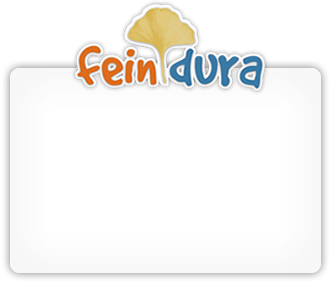
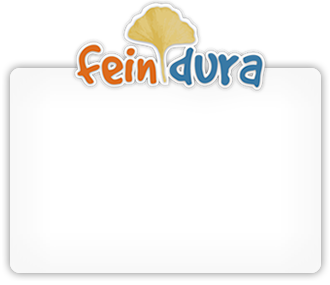
build 583: add transparent dimContainer image, to save resources (dont have to make it in js)

Changed region(s): [[0.2121, 0.1404, 0.7879, 0.3368], [0.3939, 0.0, 0.5455, 0.1123], [0.5455, 0.0561, 0.6061, 0.1123]]

diff --git a/library/javascripts/windowBox.js b/library/javascripts/windowBox.js
@@ -23,15 +23,15 @@ var uploadAnimationElement = null;
 // dimms the background and calls: requestSite(site,siteTitle);
 function openWindowBox(site,siteTitle,fixed) {
     
-  $('dimmContainer').setStyle('opacity',0);
-  $('dimmContainer').setStyle('display','block');
+  $('dimContainer').fade('hide');
+  $('dimContainer').setStyle('display','block');
   
-  $('dimmContainer').set('fade', {duration: 150, transition: Fx.Transitions.Pow.easeOut});
-  $('dimmContainer').tween('opacity',0.5);
+  $('dimContainer').set('fade', {duration: 150, transition: Fx.Transitions.Pow.easeOut});
+  $('dimContainer').fade('in');
   
   loadingText = $$('#windowBox .boxTop').get('html');
   
-  $('dimmContainer').get('tween').chain(function(e) {
+  $('dimContainer').get('tween').chain(function(e) {
     if(site) {
       // if fixed is true, than the window positon is relative,
       // means its fixed in the document, and NOT scrolling with the user
@@ -62,13 +62,13 @@ function openWindowBox(site,siteTitle,fixed) {
 
 /* ---------------------------------------------------------------------------------- */
 // fades all windows out and set windowBoxContainer to display:none;
-// and remove alle Events from dimmContainer, windowBox, windowRequestBox
+// and remove alle Events from dimContainer, windowBox, windowRequestBox
 function closeWindowBox(redirectAfter) {
       
 	// resize the box by a slide
 	var SlideWindowBoxClose = new Fx.Slide('windowRequestBox', {duration: 250, transition: Fx.Transitions.Pow.easeIn});
 	$('windowBox').set('tween', {duration: 100, transition: Fx.Transitions.Pow.easeOut});
-	$('dimmContainer').set('tween', {duration: 150, transition: Fx.Transitions.Pow.easeOut});
+	$('dimContainer').set('tween', {duration: 150, transition: Fx.Transitions.Pow.easeOut});
 	
 	// IE HACK, wont bring the bottom div to the top
 	if(navigator.appVersion.match(/MSIE ([0-6]\.\d)/)) {
@@ -83,9 +83,9 @@ function closeWindowBox(redirectAfter) {
 			$('windowRequestBox').setStyle('height', 'auto');
 			
 			// fades the windowBox
-			$('windowBox').tween('opacity',0);
-			// fades the dimmContainer
-      $('dimmContainer').tween('opacity',0);
+			$('windowBox').fade('out');
+			// fades the dimContainer
+      $('dimContainer').fade('out');
   });
   
   $('windowBox').get('tween').chain(function(e) {
@@ -94,8 +94,8 @@ function closeWindowBox(redirectAfter) {
   });
   
   // last effect
-  $('dimmContainer').get('tween').chain(function(e) {
-	   $('dimmContainer').setStyle('display','none');
+  $('dimContainer').get('tween').chain(function(e) {
+	   $('dimContainer').setStyle('display','none');
 	   $$('#windowBox .boxTop').set('html',loadingText);
 	   
 	   if(redirectAfter)

diff --git a/library/javascripts/frontendEditing.js b/library/javascripts/frontendEditing.js
@@ -81,17 +81,18 @@
       onRequest: function() { //-----------------------------------------------------		
 
         // -> TWEEN jsLoadingCircleContainer
-    		if(!pageBlock.get('html').contains(loadingFill))
+    		if(!pageBlock.contains(loadingFill))
     		  pageBlock.grab(loadingFill,'top');
         loadingFill.set('tween',{duration: 100});
         loadingFill.setStyle('opacity',0);
         loadingFill.tween('opacity',0.8);
         
         // -> ADD the LOADING CIRCLE
-        if(!pageBlock.get('html').contains(jsLoadingCircle))
+        if(!pageBlock.contains(jsLoadingCircle))
     		  pageBlock.grab(jsLoadingCircle,'top');
     		centerOnElement(jsLoadingCircle,pageBlock);
-    		removeLoadingCircle = feindura_loadingCircle(jsLoadingCircle, 24, 40, 12, 4, "#000");        
+    		removeLoadingCircle = feindura_loadingCircle(jsLoadingCircle, 24, 40, 12, 4, "#000");
+    		jsLoadingCircle.fade('in');    
       },
   		onSuccess: function(html) { //-------------------------------------------------
   			
@@ -115,7 +116,7 @@
           finishPicture.set('tween',{duration: 400});
           finishPicture.fade('in');
           finishPicture.get('tween').chain(function(){
-            finishPicture.tween('opacity',0);
+            finishPicture.fade('out');
           }).chain(function(){
             finishPicture.dispose();
             // -> UPDATE the pageBlock CONTENT
@@ -154,7 +155,7 @@
   			});
         
         // -> fade out the loadingCircle
-        if(!pageBlock.get('html').contains(jsLoadingCircle))
+        if(!pageBlock.contains(jsLoadingCircle))
           pageBlock.grab(jsLoadingCircle,'top');
   			jsLoadingCircle.set('tween',{duration: 200});
   			jsLoadingCircle.fade('out');

diff --git a/library/javascripts/content.js b/library/javascripts/content.js
@@ -971,7 +971,7 @@ window.addEvent('domready', function() {
           onRequest: function() {
             
             // -> ADD the LOADING CIRCLE     
-            if(!title.get('html').contains(jsLoadingCircle))
+            if(!title.contains(jsLoadingCircle))
         		  title.grab(jsLoadingCircle,'top');
         		removeLoadingCircle = feindura_loadingCircle(jsLoadingCircle, 8, 15, 12, 2, "#000");  
           },
@@ -1019,14 +1019,14 @@ window.addEvent('domready', function() {
             });            
             
             // -> fade out the loadingCircle
-            if(!title.get('html').contains(jsLoadingCircle))
+            if(!title.contains(jsLoadingCircle))
               title.grab(jsLoadingCircle,'top');
-      			jsLoadingCircle.set('tween',{duration: 200});
-      			jsLoadingCircle.fade('out');
-      			jsLoadingCircle.get('tween').chain(function(){
-      			   // -> REMOVE the LOADING CIRCLE
-      			   removeLoadingCircle();
-      			   jsLoadingCircle.dispose();
+        			jsLoadingCircle.set('tween',{duration: 200});
+        			jsLoadingCircle.fade('out');
+        			jsLoadingCircle.get('tween').chain(function(){
+              // -> REMOVE the LOADING CIRCLE
+              removeLoadingCircle();
+              jsLoadingCircle.dispose();
             });
             
       		}

diff --git a/library/javascripts/loading.js b/library/javascripts/loading.js
@@ -120,15 +120,15 @@ window.addEvent('domready', function() {
   // LAYOUTFIX
   layoutFix();
   
-  // IE HACK for dimmContainer
-	if(navigator.appVersion.match(/MSIE ([0-6]\.\d)/) && $('dimmContainer') != null) {
-		$('dimmContainer').setStyle('height',$(document.body).offsetHeight); //,$('window').getSize().y);
+  // IE HACK for dimContainer
+	if(navigator.appVersion.match(/MSIE ([0-6]\.\d)/) && $('dimContainer') != null) {
+		$('dimContainer').setStyle('height',$(document.body).offsetHeight); //,$('window').getSize().y);
 	}
   
   // ->> if DOCUMENT SAVED has given the class from the php script
   if($('documentSaved') != null && $('documentSaved').hasClass('saved')) {
     // set tween
-    $('dimmContainer').set('tween', {duration: 200, transition: Fx.Transitions.Pow.easeOut});
+    $('dimContainer').set('tween', {duration: 200, transition: Fx.Transitions.Pow.easeOut});
     // display document saved
     showDocumentSaved();  
   }

diff --git a/library/styles/layout.css b/library/styles/layout.css
@@ -44,20 +44,18 @@ span.red, label.red, h1.red, ul.red, div.red {
 /****************/	
 /* *** DIMM-CONTAINER */
 
-#dimmContainer {
+#dimContainer {
     z-index: 5;
     position: fixed;
     width: 100%;
     height: 100%;
     /*background-color: #222222;*/
-    background: url("../images/bg/dimmContainer.png") repeat;
+    background: url("../images/bg/dimContainer.png") repeat;
     display: none;
-    -moz-opacity:0.5; -khtml-opacity:0.5; opacity:0.5;
-    filter:Alpha(opacity=50, finishopacity=50, style=0);
     } 
 
 .cke_dialog_background_cover {
-    background: url("../images/bg/dimmContainer.png") repeat !important;
+    background: url("../images/bg/dimContainer.png") repeat !important;
     background-color: transparent !important;
     }
 

diff --git a/library/styles/windowBox.css b/library/styles/windowBox.css
@@ -80,7 +80,7 @@ windowBox.css version 0.2 */
     /*margin-bottom: -80px;*/
     padding: 50px 0px;
     text-align: center;
-    background: url("../images/bg/dimmContainer.png") repeat;
+    background: url("../images/bg/dimContainer.png") repeat;
     -moz-opacity:0.5; -khtml-opacity:0.5; opacity:0.5;
     filter:Alpha(opacity=50, finishopacity=50, style=0);
     }

diff --git a/library/styles/ie6.css b/library/styles/ie6.css
@@ -23,7 +23,7 @@
     }
 
 /* hack that ie shows the dimm-container with height 100% */
-#dimmContainer {
+#dimContainer {
     position: absolute;
     }
 

diff --git a/index.php b/index.php
@@ -184,18 +184,19 @@ if($_GET['site'] == 'addons') {
         hideOnClick: true,
         hideOverlay: true,
         onShow: function() {
-            $('dimmContainer').setStyle('opacity',0);
-            $('dimmContainer').setStyle('display','block');
-            $('dimmContainer').set('tween', {duration: 350, transition: Fx.Transitions.Pow.easeOut});
-            $('dimmContainer').tween('opacity',0.5);
-            $('dimmContainer').addEvent('click',hideFileManager.bind(this));
+            window.location.hash = '#none';
+            $('dimContainer').setStyle('opacity',0);
+            $('dimContainer').setStyle('display','block');
+            $('dimContainer').set('tween', {duration: 350, transition: Fx.Transitions.Pow.easeOut});
+            $('dimContainer').fade('in');
+            $('dimContainer').addEvent('click',hideFileManager.bind(this));
           },
         onHide: function() {
-            $('dimmContainer').removeEvent('click',hideFileManager);
-            $('dimmContainer').set('tween', {duration: 350, transition: Fx.Transitions.Pow.easeOut});
-            $('dimmContainer').tween('opacity',0);
-            $('dimmContainer').get('tween').chain(function() {
-              $('dimmContainer').setStyle('display','none');
+            $('dimContainer').removeEvent('click',hideFileManager);
+            $('dimContainer').set('tween', {duration: 350, transition: Fx.Transitions.Pow.easeOut});
+            $('dimContainer').fade('out');
+            $('dimContainer').get('tween').chain(function() {
+              $('dimContainer').setStyle('display','none');
             });
           }
     });
@@ -209,8 +210,10 @@ if($_GET['site'] == 'addons') {
         fileManager.show();
       });
     });
-    <?php } ?>
+    <?php }
     
+    if(!empty($userConfig)) {
+    ?>
     // ->> starts the session counter
     var div = $('sessionTimer'),
     coundown = new CountDown({
@@ -235,12 +238,13 @@ if($_GET['site'] == 'addons') {
         window.location = 'index.php?logout';
       }
     })
+    <?php } ?>
   })
   /* ]]> */
   </script>
 </head>
 <body>
-  <div id="dimmContainer">
+  <div id="dimContainer">
   </div>
 
   <!-- loadingBox -->
